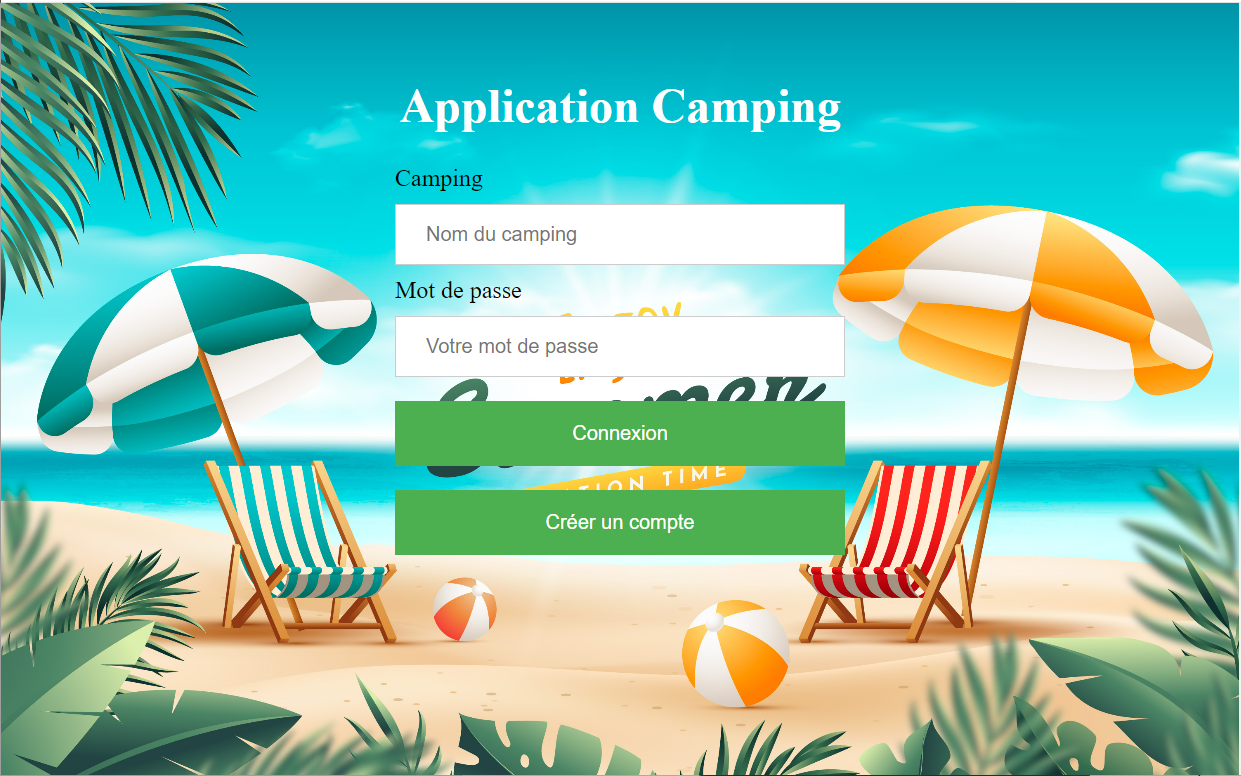
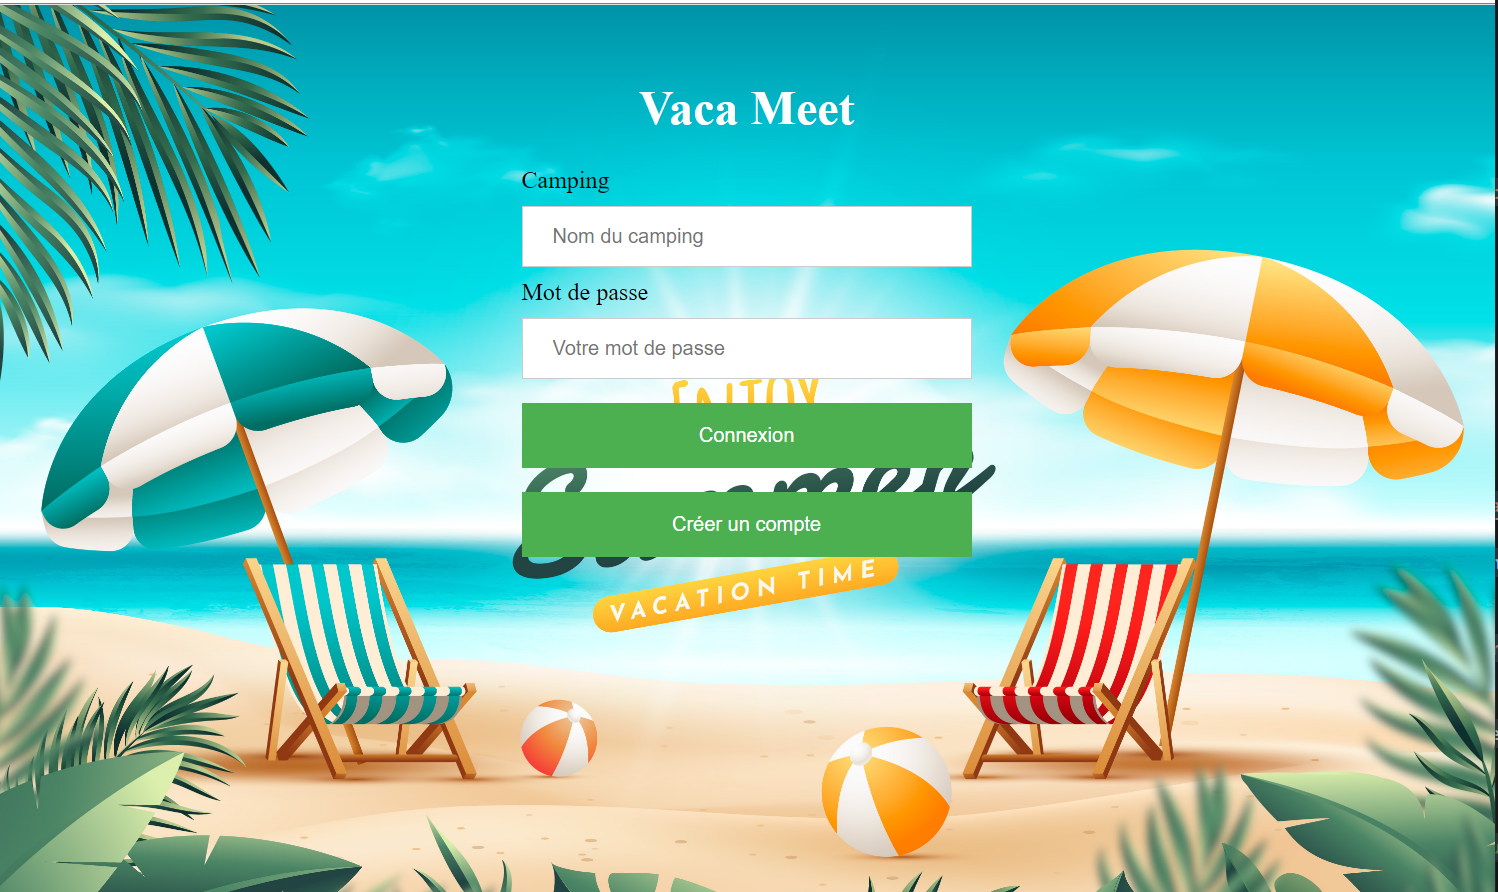
cahier des charge

diff --git a/Inscription_Camping.html b/Inscription_Camping.html
@@ -11,7 +11,7 @@
 
 
 <body>
-    <h1>Application Camping</h1>
+    <h1>Vaca  Meet</h1>
    
     <!--Formulaire de connexion-->
 	<form method="post" id="login-form" action="/PHP/Verif_login_Camping.php">
